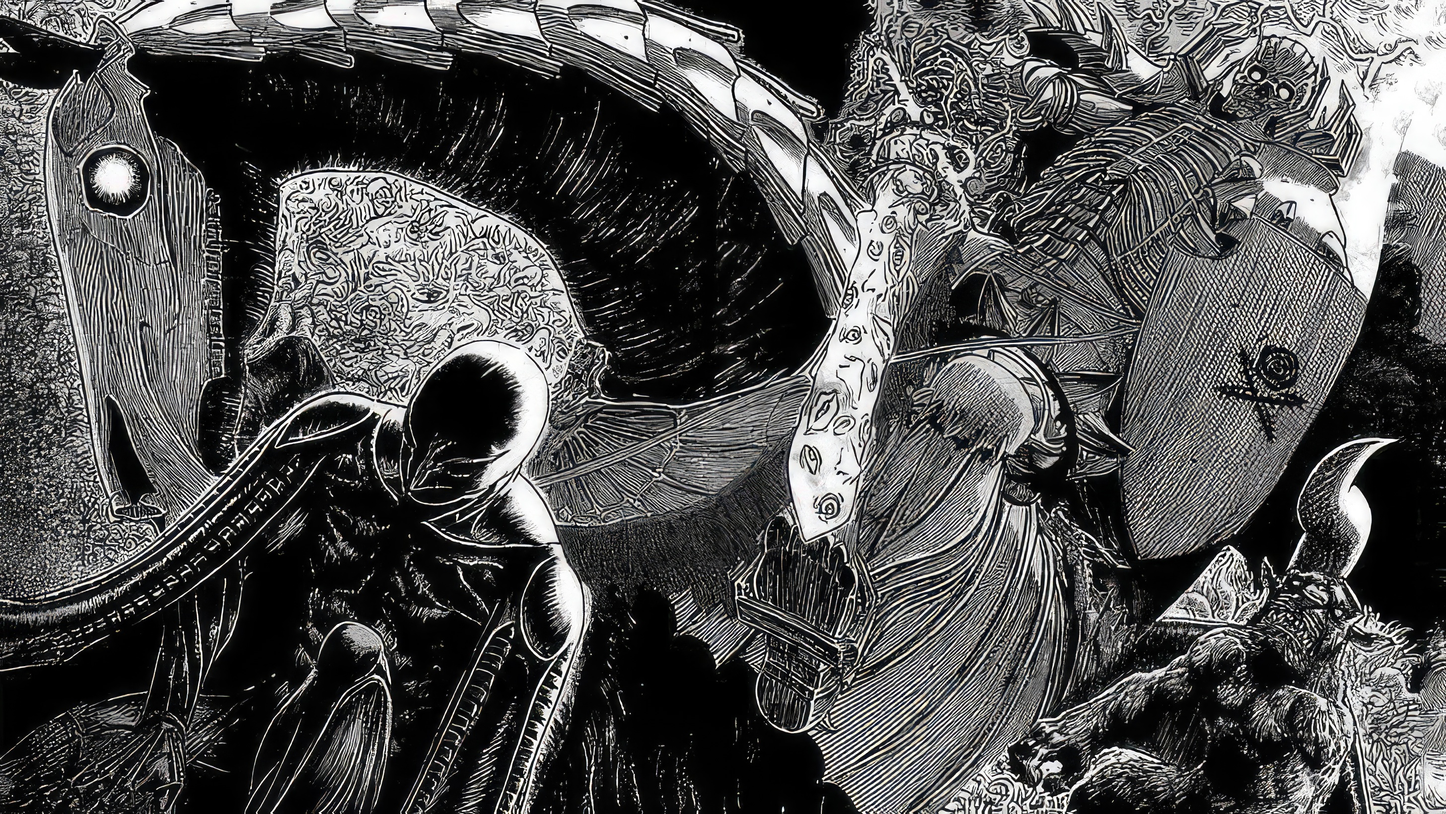
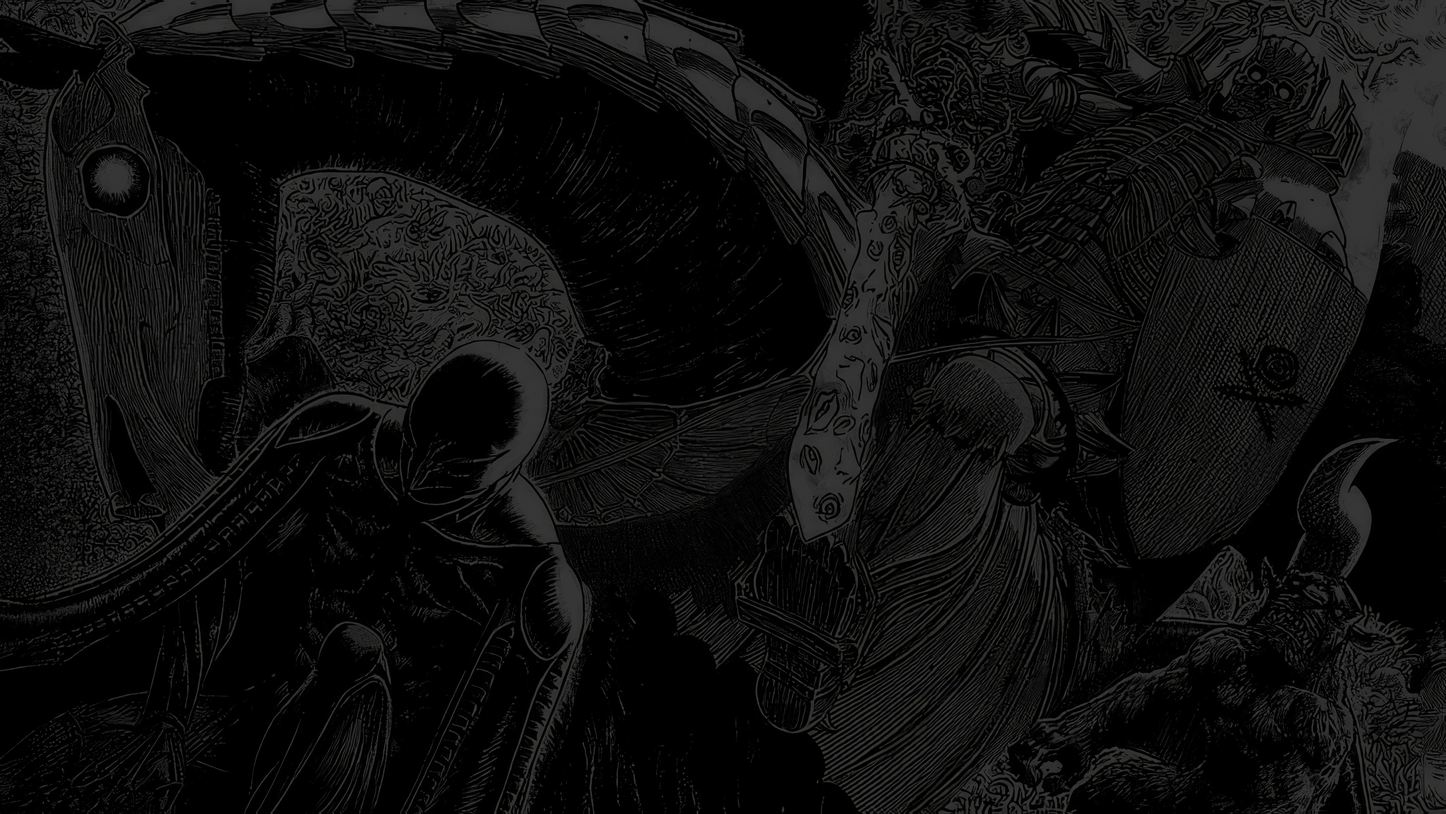
Major changes

diff --git a/index.html b/index.html
@@ -7,32 +7,33 @@
     <link rel="stylesheet" href="style.css">
 </head>
 <body>
-    <div class = "head">
-        <div class = "Berserk">Berserk</div>
-        <div class = "links">
-            <ul class="toplinks">
-                <li>link1</li>
-                <li>link2</li>
-                <li>link3</li>
-            </ul>
+    <div class="bgimage">
+        <div class = "head">
+            <div class = "Berserk">Berserk</div>
+            <div class = "links">
+                <ul class="toplinks">
+                    <li>link1</li>
+                    <li>link2</li>
+                    <li>link3</li>
+                </ul>
+            </div>
+        </div>
+
+        <div class="one">
+            <div class = "oleft">
+                <div class="aweb">
+                    Berserk 𒉭
+                </div>
+                <div class="obody">
+                    Berserk (Japanese: ベルセルク, Hepburn: Beruseruku) is a Japanese manga series written and illustrated by Kentaro Miura. Set in a medieval Europe-inspired dark fantasy world, the story centers on the characters of Guts, a lone swordsman, and Griffith, the leader of a mercenary band called the "Band of the Hawk".
+                </div>
+                <button class="signup"> Sign up</button>
+            </div>
+            <div class="opic">
+                <img src="./Images/guts.jpeg" alt = "PICTURE">
+            </div>
         </div>
     </div>
-
-    <div class="one">
-        <div class = "oleft">
-            <div class="aweb">
-                Berserk 𒉭
-            </div>
-            <div class="obody">
-                Berserk (Japanese: ベルセルク, Hepburn: Beruseruku) is a Japanese manga series written and illustrated by Kentaro Miura. Set in a medieval Europe-inspired dark fantasy world, the story centers on the characters of Guts, a lone swordsman, and Griffith, the leader of a mercenary band called the "Band of the Hawk".
-            </div>
-            <button class="signup"> Sign up</button>
-        </div>
-        <div class="opic">
-            <img src="./Images/guts.jpeg" alt = "PICTURE">
-        </div>
-    </div>
-
     <div class="two">
         <div class="ttitle"> Info char</div>
 

diff --git a/style.css b/style.css
@@ -4,12 +4,16 @@
 
 .head{
     display: flex;
-    /* background: rgb(31, 31, 31); */
-    color:black;
+    background: rgb(0, 0, 0);
+    color:rgb(255, 255, 255);
     
     justify-content: space-between;
-    margin-left: 80px;
-    margin-right: 80px;
+    /* padding-left: 80px; */
+    padding-right: 5%;
+    padding-left: 5%;
+    padding-top: 1%;
+    padding-bottom: 1%;
+    /* padding: 1%; */
     
 }
 
@@ -47,10 +51,10 @@ li {
     justify-content: center;
     align-items: center;
     margin-top: 132px;
-    margin-bottom: 100px;
+    padding-bottom: 132px;
     margin-left: 292px;
     margin-right: 237px;
-    gap: 10%;
+    gap: 6vw;
     /* border: 1px solid lightgray; */
     
 }
@@ -66,33 +70,56 @@ li {
 }
 
 .aweb{
-    font-size: 3vw;
+    /* font-size: 400%; */
     font-family: "Yeseva One", sans-serif;
+    text-wrap: nowrap;
+    color: white;
+    font-size: 3vw;
+    /* flex: 1 .5 0; */
+
 }
 .opic{
     /* border: 1px solid lightgray; */
     flex: 1; 
+    
     /* align-items: center; 
     justify-content: center;  */
     
 }
 .opic img{
     max-width: 100%;
+    min-width: 100px;
     border-radius: 30px;
+    border: 5px solid white;
     height: auto;
 
 
+}
+
+.bgimage{
+    background-image: url(/Images/Eclipse\,\ Berserk-gigapixel-standard-scale-4_00x.jpeg);
+    background-size: cover;
+    background-position: center;
+    background-repeat: no-repeat;
+    width: 100%;
+    /* height: 100vh; */
 }
 .signup{
     font-size: .8vw;
     flex: 1 1 auto;
     max-width: min-content;
     padding: .2vw .9vw;
+    font-family: "Pragati Narrow", serif;
+    
     text-wrap: nowrap;
 }
 
+button{
+    border-radius: 10px;
+}
 .obody{
     font-size: 0.9vw;
     margin-bottom: 3%;
+    color: white;
     
 }
